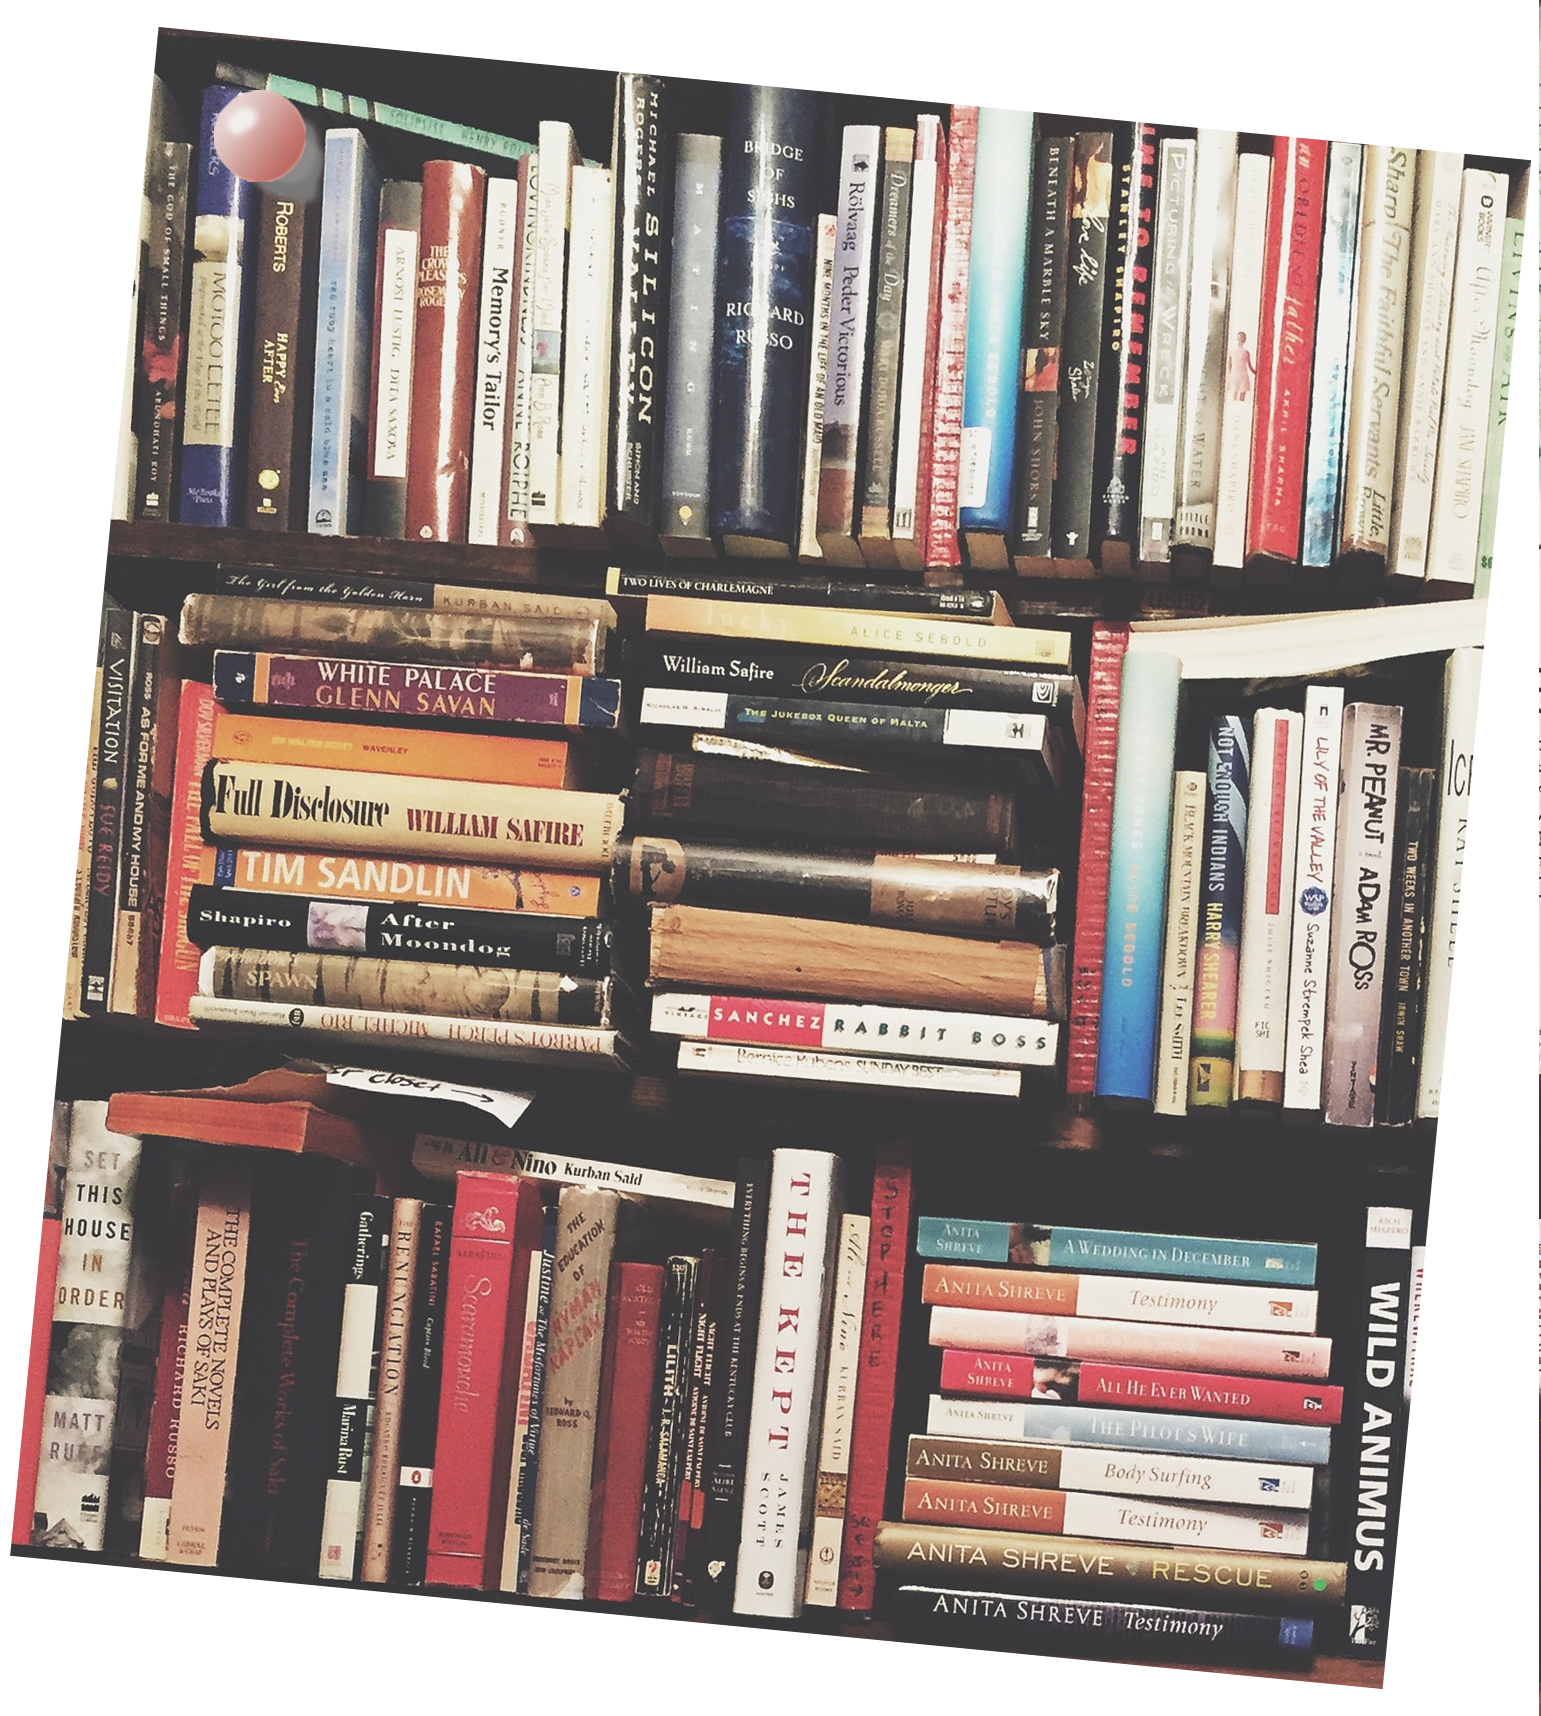
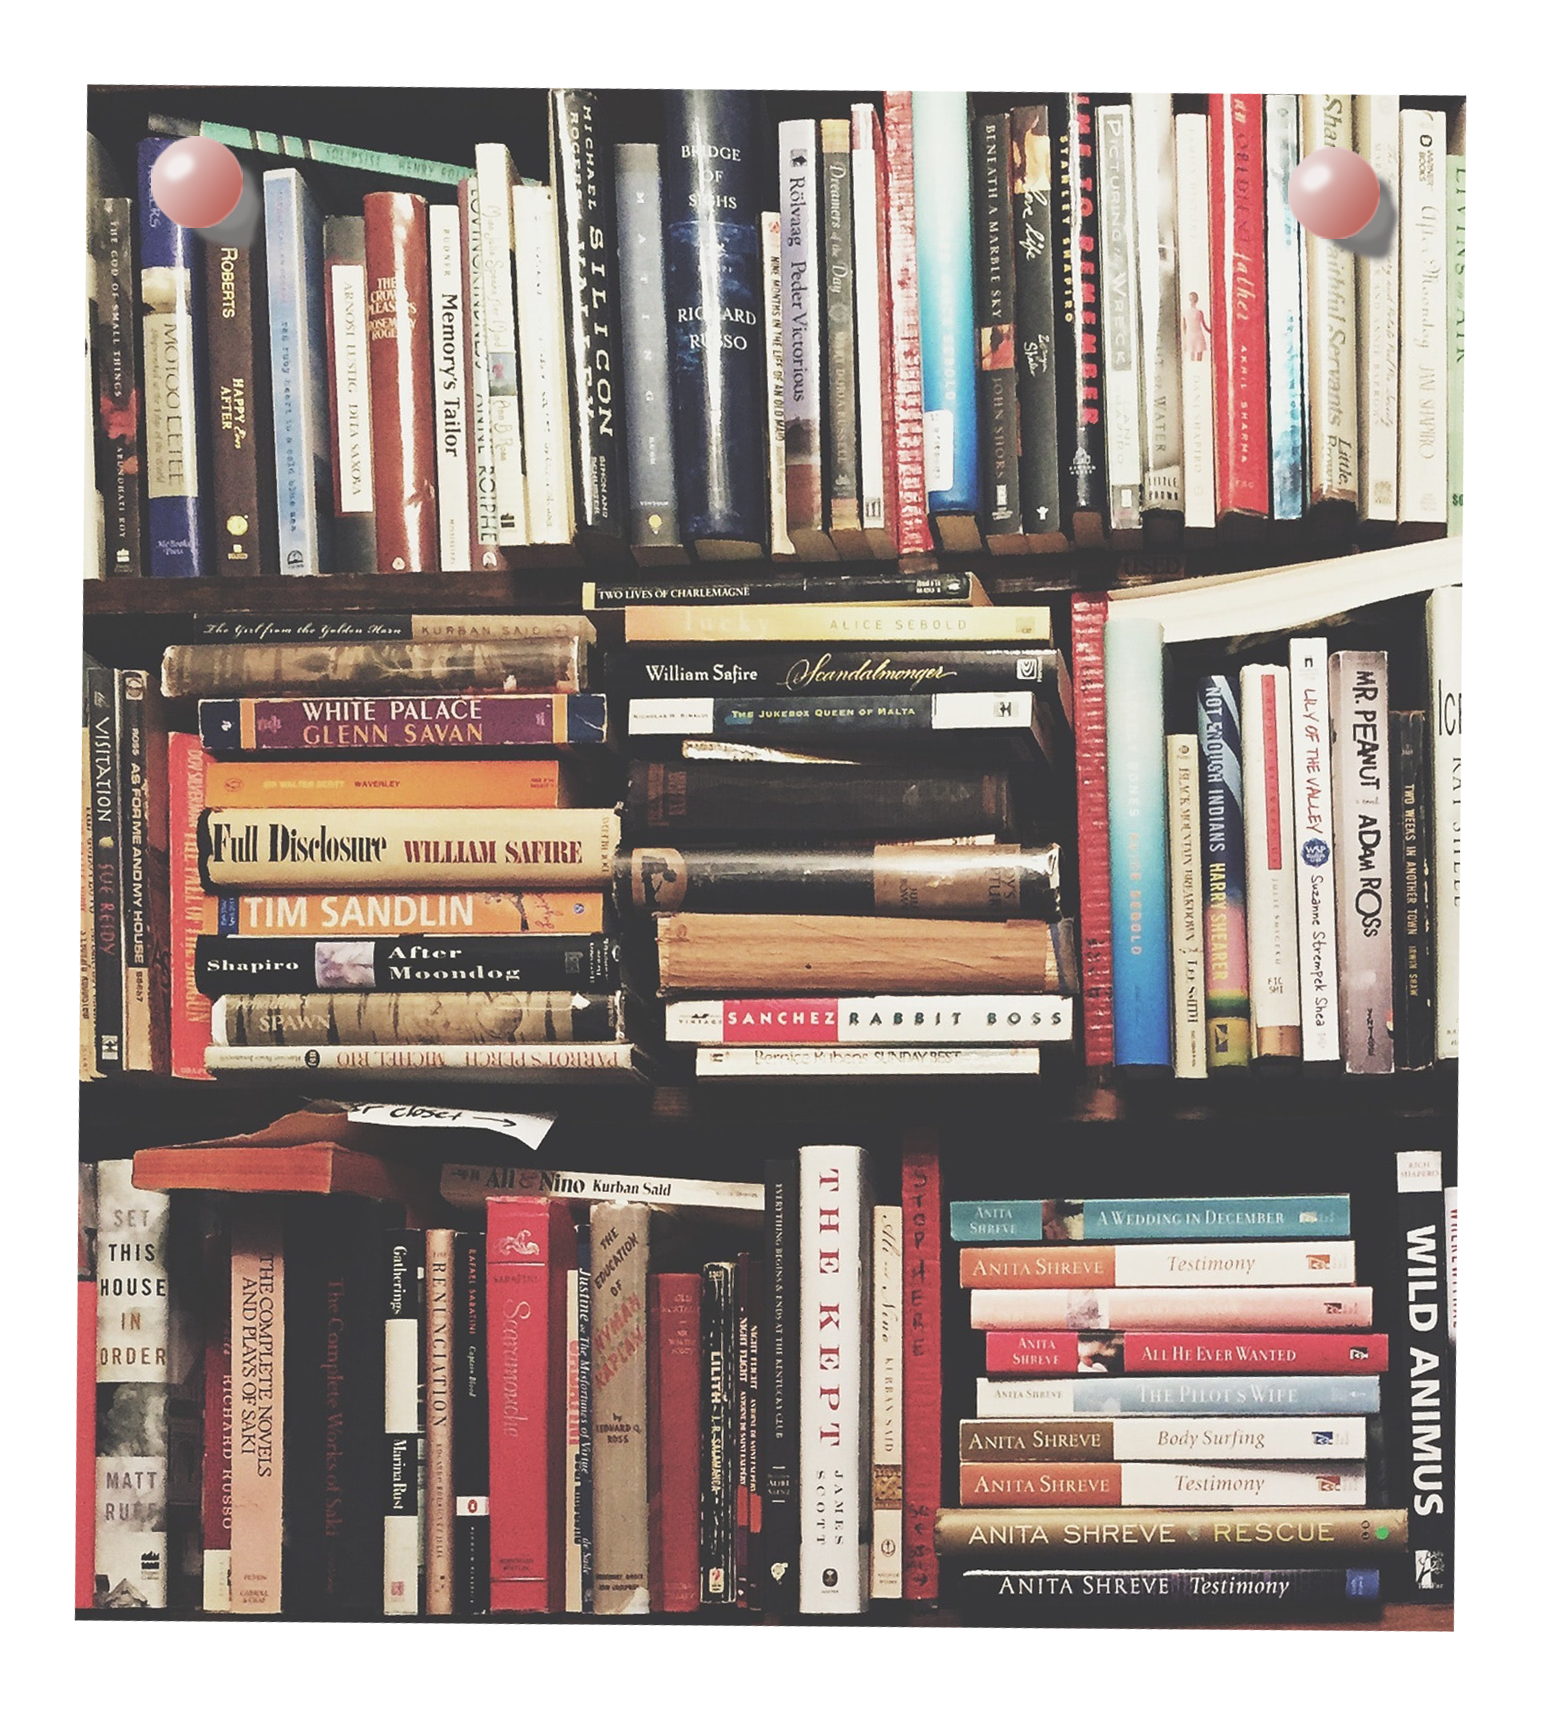
added image assets
- used relatively-absolute positioning and z-index to position
- still need to figure out child selectors to alternate L/R sides

diff --git a/docs/index.html b/docs/index.html
@@ -21,6 +21,7 @@
       <div class='typewriter-page'>
 
   <!--header -->
+
         <header class='header-container'>
           <div class='title-and-logo'>
             <div class='title-text'>Loose Leaf</div>
@@ -28,7 +29,9 @@
           </div>
           <div class='subtitle'>- books & brews -</div>
         </header>
+
   <!--navigation bar section -->
+
         <div class='nav-bar-container'>
           <nav class='main-nav' id='main-nav' role='navigation'>
             <ul>
@@ -65,7 +68,10 @@
   <!--books page section -->
 
         <section id='the-bookshelves' class='page-section'>
-          <h1>- the bookshelves -</h1>
+          <div class='image-and-header'>
+            <h1>- the bookshelves -</h1>
+            <img src='images/bookshelf.png' alt='Image of a bookshelf pinned to webpage' height='300' class='section-img'/>
+          </div>
           <h2>Used. New. Fiction. Nonfiction. Fairytales. Memoirs. Vampires. Psychological thrillers. We’ve got it all right here. Check out a bit about our store policies below:</h2>
           <h3>Used & New Books:</h3>
           <p>Here at Loose Leaf, we prioritize sustainability. Therefore, a majority of our collection is used books. <em>&#8592; sold at reduced price (democratize knowledge!)</em></p>
@@ -81,11 +87,13 @@
   <!--cafe page section -->
 
         <section id='the-brews' class='page-section'>
-          <h1>- the brews -</h1>
-          <h2>Perhaps you want to take a book for a test drive before you purchase, or you’ve got a project deadline coming up and you need a place to work. Look no farther than our in-house café! Plenty of cozy seats- and sustenance- await… Take a look at our menu below: <em>&#8592; and try not to drool on your keyboard while you’re at it</em></h2>
-<!-- need to replace image with clear background, align with handwriting text
-          <img src='images/test.png' alt='loose leaf paper pinned to web page' width=150 height=150 class='loose-leaf-note'/>
--->
+          <div class='image-and-header'>
+            <h1>- the brews -</h1>
+            <img src='images/cafe.png' alt='Image of a espresso portafilters pinned to webpage' height='400' class='section-img'/>
+          </div>
+          <h2>Perhaps you want to take a book for a test drive before you purchase, or you’ve got a project deadline coming up and you need a place to work. Look no farther than our in-house café! Plenty of cozy seats- and sustenance- await…</h2>
+          <h2>Take a look at our menu below: <em>&#8592; and try not to drool on your keyboard while you’re at it</em></h2>
+
           <div class='menu-container'>
             <h1>| menu |</h1>
             <h2>beans</h2>
@@ -212,10 +220,14 @@
             </div>
           <h4>---</h4>
         </section>
+
   <!--underGROUNDS page section -->
 
         <section id='the-undergrounds' class='page-section'>
-          <h1>- the underGROUNDS –</h1>
+          <div class='image-and-header'>
+            <h1>- the underGROUNDS-</h1>
+            <img src='images/poster.png' alt='Image of a posters on a wall pinned to webpage' height='300' class='section-img'/>
+          </div>
           <h2>Yes, we’re a bookstore and a café, but after hours, we undergo another transformation... <em>&#8592; sort of like a werewolf, but with less teeth</em></h2>
           <h3>The Tea:</h3>
           <p>Just between you and us, Loose Leaf gets kind of lonely after closing. So, for its own good, after hours it becomes a rentable hot spot for book clubs, advocacy group meetings, and more! Have a meeting, but no meeting space? We’re here to help.</p>
@@ -229,9 +241,5 @@
         </footer>
       </div>
     </div>
-    <!-- trying to add border images - buggy
-    <div class='border-image-r'>
-      <img src='images/bookshelf.jpg' alt='Bookshelf'/>
-    </div> -->
   </body>
 </html>

diff --git a/docs/styles.css b/docs/styles.css
@@ -38,6 +38,7 @@ body {
   bottom: 0px;
   display: flex;
   align-self: center; /*centers typerwriter over page*/
+  z-index: 2
 }
 
 .typewriter-page {
@@ -119,6 +120,9 @@ body {
   .typewriter-image > img {
     display: none;
   }
+  .section-img > img {
+    display: none;
+  }
 } /*removing typewriter for smaller screens - need to style nav-bar and header too*/
 
 
@@ -155,7 +159,20 @@ nav.main-nav > ul > li > a:hover {
   color: #444444;
 }
 
-.page-section > h1 {
+.image-and-header {
+  display: flex;
+  justify-content: center;
+  position: relative;
+  z-index: 1
+}
+
+.section-img {
+  position: absolute;
+  right: 625px;
+} /*how to position the 1st and last image on the right side using child selectors?*/
+
+.page-section > h1,
+.image-and-header > h1 {
     padding-top: 1.25em;
     padding-bottom: .5em;
     color: #333333; /* darker charcoal for emphasis */

diff --git a/assets.md b/assets.md
@@ -2,9 +2,9 @@
 | -------------------------------- | ---------------- | ----- |
 | Old typewriter font              | Font squirrel    | Y     |
 | Handwriting font                 | Font squirrel    | Y     |
-| Café image                       | Unsplash         |       |
-| Bookshelf image                  | Unsplash         |       |
-| Book club or poster making image | Unsplash         |       |
+| Café image                       | Unsplash         | Y     |
+| Bookshelf image                  | Unsplash         | Y     |
+| Book club or poster making image | Unsplash         | Y     |
 | Typewriter image                 | Pixy.org         | Y     |
 | Editing markings                 | the Noun Project |       |
 | Hand-drawn web icons             | the Noun Project |       |
@@ -43,7 +43,7 @@
               title: INDIE FLOWER
               user: Kimberly Geswein
 
-3. Café Image taken at Vitals Coffee, Manhattan Beach, United States
+3. Café Image taken at Vitals Coffee, Manhattan Beach, United States - USED
 
 (Annotations) To be used for background of café section
 
@@ -59,7 +59,7 @@
               title: [untitled]
               user: Nathan Dumlao
 
-4. Bookshelf Image taken at Capitol Hill Books, Washington, United States
+4. Bookshelf Image taken at Capitol Hill Books, Washington, United States - USED
 
 (Annotations) To be used for background of bookstore section
 
@@ -75,7 +75,7 @@
               title: [untitled]
               user: Ashim D’Silva
 
-5. Poster Image taken in Brooklyn, United States
+5. Poster Image taken in Brooklyn, United States - USED
 
 (Annotations) To be used for background of the Under*grounds* section
 
@@ -145,7 +145,7 @@
 
 10. Logo option 2 - *coffee ring*
 
-(Annotations) For brand logo 
+(Annotations) For brand logo
 
 (Rights) "This icon is licensed as Creative Commons CCBY / When using it for any project, you are required to give credit to the icon‘s creator or purchase a royalty–free license."
 
